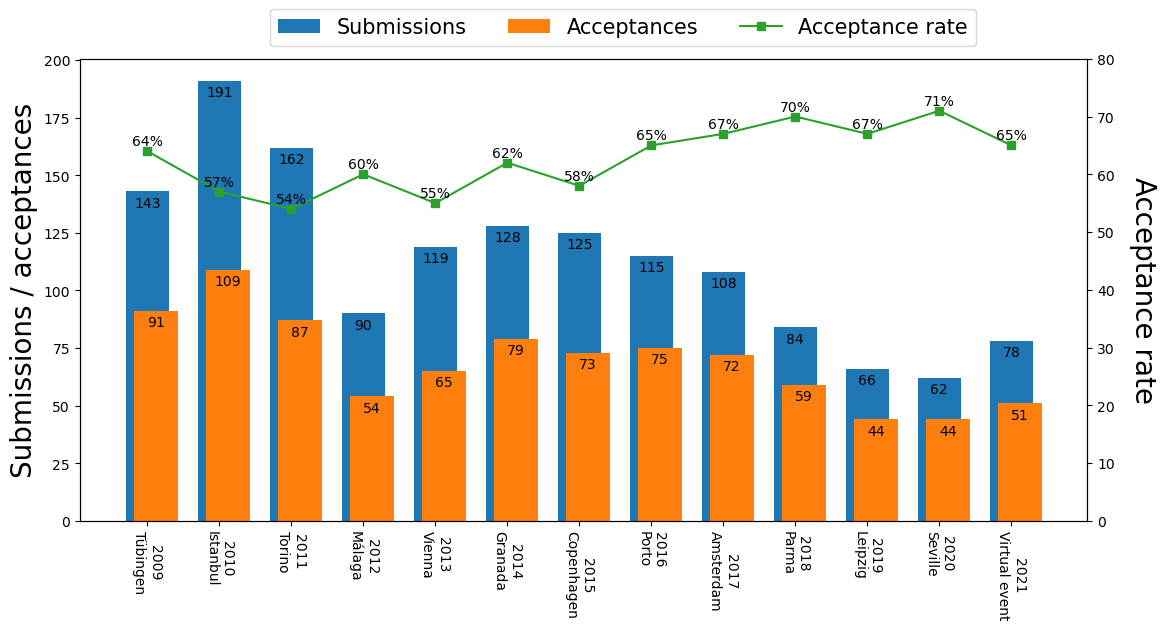
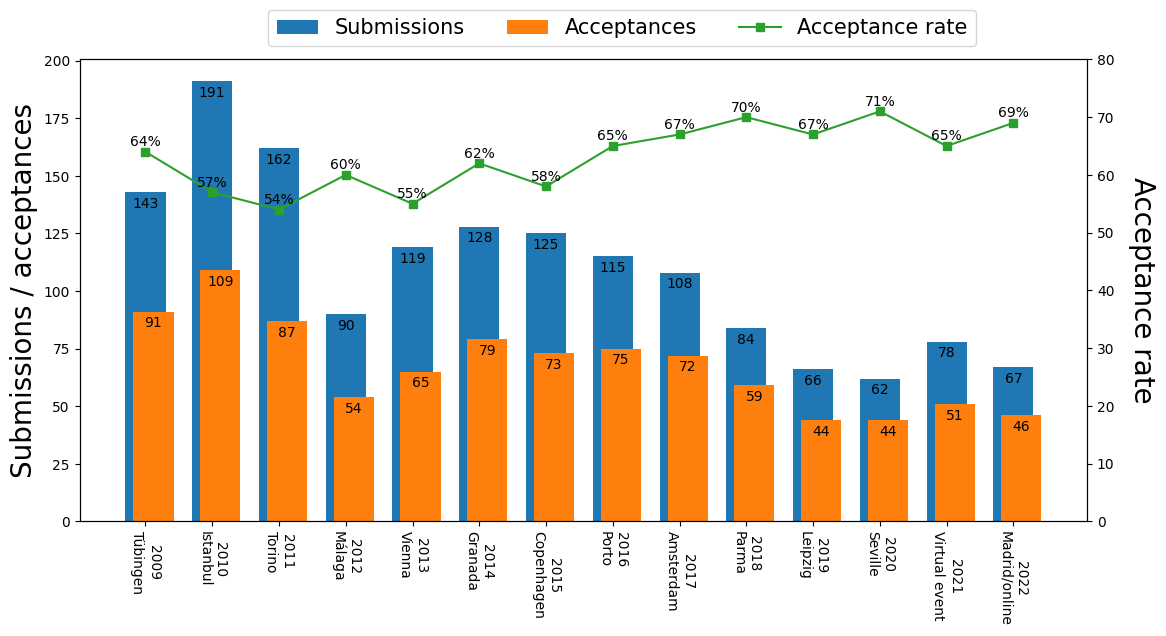
updated stats of gecco and evostar2022

diff --git a/index.md b/index.md
@@ -79,6 +79,7 @@ This table provides statistics of full papers, not two-page poster papers.
 | 2019 | 501        | 173        | 35%             | Prague        | 
 | 2020 | 415        | 149        | 36%             | Cancún (online)       | 
 | 2021 | 362        | 134        | 37%             | Lille (online)       | 
+| 2022 | 426        | 158        | 37%             | Boston (hybrid)       | 
 
 ![GECCO](fig/stats_gecco.png) 
 
@@ -115,6 +116,7 @@ It is not obvious how to calculate the acceptance rates of GECCO poster papers. 
 | 2019 | 501        | 168        | 173             | 68%             | Prague        | 
 | 2020 | 415        | 132        | 149             | 68%             | Cancún (online)        | 
 | 2021 | 362        | 136        | 134             | 75%             | Lille (online)       | 
+| 2022 | 426        | 242        | 158             | 94%             | Boston (hybrid)       | 
 
 ![GECCO (poster)](fig/stats_gecco_poster.png) 
 
@@ -259,6 +261,7 @@ EuroGP is held as part of EvoStar, which consists of EuroGP, EvoApplications, Ev
 | 2019 | 36         | 18         | 50%             | Leipzig    | 
 | 2020 | 36         | 18         | 50%             | Seville    | 
 | 2021 | 27         | 17         | 63%             | Virtual event    | 
+| 2022 | 35         | 19         | 54%             | Madrid/online    | 
 
 ![EuroGP](fig/stats_eurogp.png) 
 
@@ -293,6 +296,7 @@ EvoCOP is held as part of EvoStar, which consists of EuroGP, EvoApplications, Ev
 | 2019 | 37         | 14         | 38%             | Leipzig    | 
 | 2020 | 37         | 14         | 38%             | Seville    | 
 | 2021 | 42         | 14         | 33%             | Virtual event    | 
+| 2022 | 28         | 13         | 46%             | Madrid/online    |
 
 ![EvoCOP](fig/stats_evocop.png) 
 
@@ -316,6 +320,7 @@ EvoMUSART is held as part of EvoStar, which consists of EuroGP, EvoApplications,
 | 2019 | 24         | 16         | 67%             | Leipzig    | 
 | 2020 | 31         | 15         | 48%             | Seville    | 
 | 2021 | 66         | 31         | 47%             | Virtual event    | 
+| 2022 | 66         | 26         | 39%             | Madrid/online    |
 
 ![EvoMUSART](fig/stats_evomusart.png) 
 
@@ -342,6 +347,7 @@ EvoApplications is held as part of EvoStar, which consists of EuroGP, EvoApplica
 | 2019 | 66  | 44  | 67% | Leipzig    | 
 | 2020 | 62  | 44  | 71% | Seville    | 
 | 2021 | 78         | 51         | 65%             | Virtual event    | 
+| 2022 | 67         | 46         | 69%             | Madrid/online    |
 
 ![EvoApplications](fig/stats_evoapp.png) 
 
